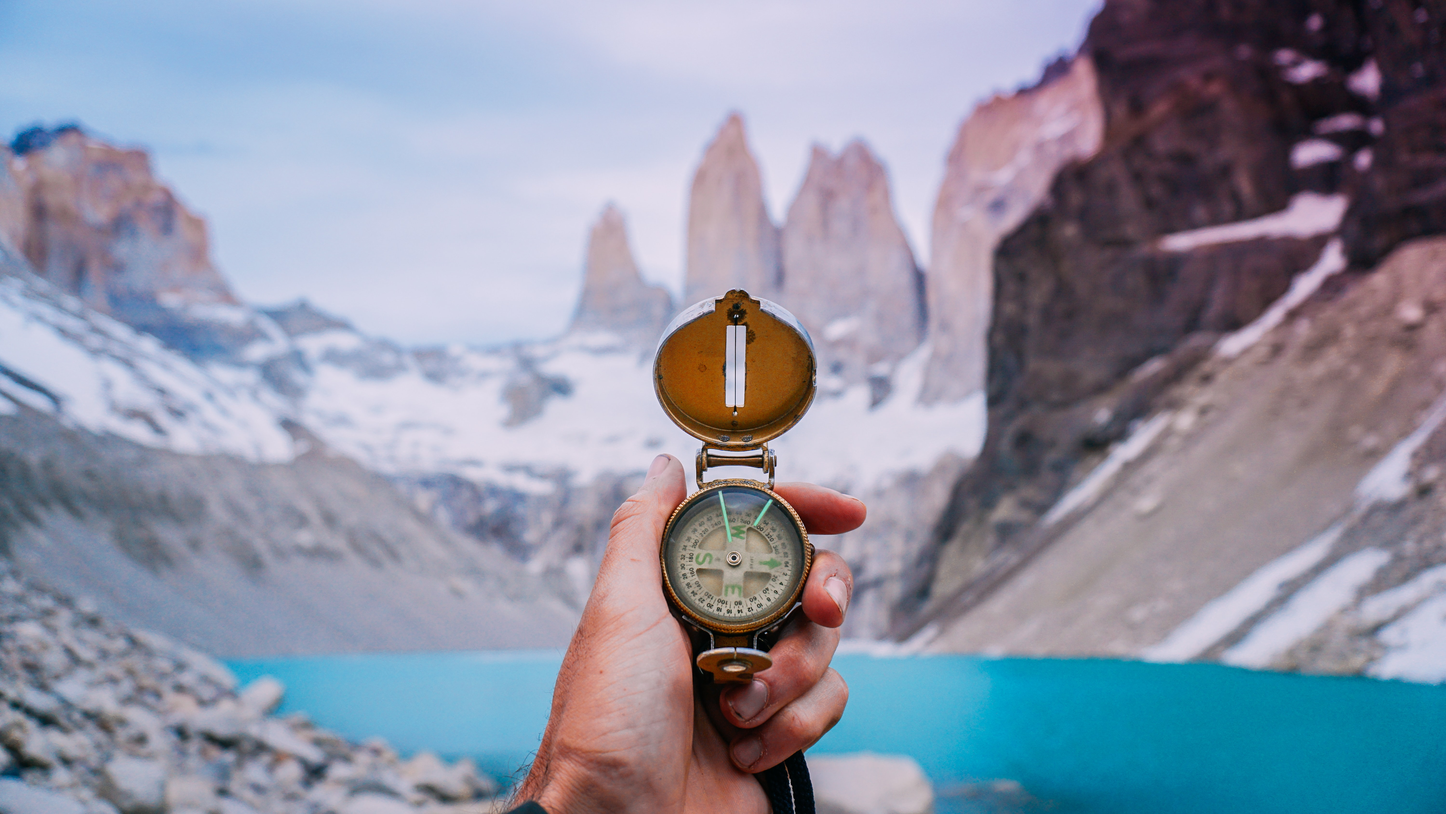
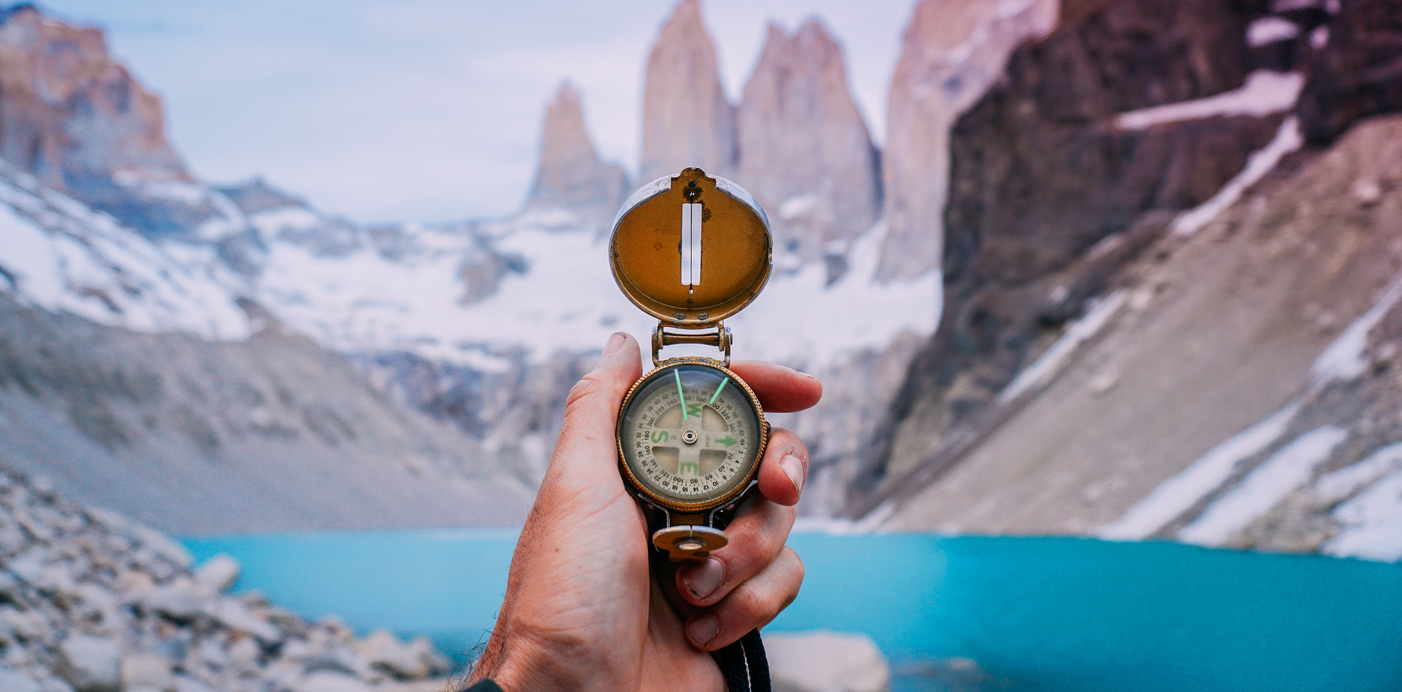
removed scroll, updated background img size, add score bar

diff --git a/src/views/Play.vue b/src/views/Play.vue
@@ -3,7 +3,24 @@
       <v-btn @click= "logout" id='btn-log-out' rounded outlined class='cyan accent-3 white--text'>Log Out</v-btn>
       
       <div id = "guess-location" class = ' d-flex justify-center'> 1. Where is this?</div>
-      <div id = "score-board" class = ' d-flex justify-center'>{{ counter}}/10 Your Score {{score}} </div>
+      <!-- <div id = "score-board" class = ' d-flex justify-center'>{{ counter}}/10 Your Score {{score}} </div> -->
+      <div id = "score-board" class = ' d-flex justify-center'>
+        <v-progress-linear
+          v-model="score"
+          height="20"
+          rounded
+          color='blue'
+        >
+          <v-text class='white--text' >{{ (score)*100 }} points  </v-text>
+           <v-text class = 'mx-5 white--text'>{{counter-1}}/10 sites</v-text>
+        </v-progress-linear>
+       
+
+    <br>
+      </div>
+
+
+      
       <v-btn id="goto-place" @click= "gotoPlace"><v-icon left class = "mx-5">mdi-airplane-takeoff</v-icon> Goto Next Place</v-btn>
       <div id= "hideMyAss"></div>
    
@@ -58,7 +75,7 @@
       <v-snackbar
         v-model="snackbar"
         centered
-        color="success"
+        color="white black--text"
         height ="200px"
         timeout= "-1"
       >
@@ -66,14 +83,14 @@
   
         <template v-slot:action="{ attrs }">
           <v-btn
-            color="red"
             outlined
+            color="green"
             border="5px"
             text
             v-bind="attrs"
             @click= "closeSnackBar"
           >
-            Close
+            NEXT
           </v-btn>
         </template>
       </v-snackbar>
@@ -217,34 +234,34 @@
           console.log(this.havershine())
             if(this.havershine() > 3000) {
               this.message = "You on wrong continent bud"
-              this.score -=  1000
+              this.score -=  1
             }else if(this.havershine() >= 2000 && this.havershine()< 3000){
               this.message = "You are way off!"
-              this.score -= 500
+              this.score += 0
             }else if(this.havershine() >= 1000 && this.havershine()< 2000){
                this.message = "Not Even Close"
-               this.score -= 250
+               this.score += 1
             }else if(this.havershine() >= 500 && this.havershine()< 1000){
                this.message = "Close"
-               this.score +=  0
+               this.score +=  3
             }else if(this.havershine() >= 250 && this.havershine()< 500){
                this.message = "Getting Hot"
-               this.score += 250
+               this.score += 5
             }else if(this.havershine() >= 100 && this.havershine()< 250){
                this.message = "Close, but no cigars"
-               this.score += 500
+               this.score += 6
             }else if(this.havershine() >= 50 && this.havershine()< 100){
                this.message = "You are close!"
-               this.score += 1000
+               this.score += 7
             }else if(this.havershine() >= 25 && this.havershine()< 50){
                this.message = "You are Good!"
-               this.score +=  2000
+               this.score +=  8
             }else if(this.havershine() >= 10 && this.havershine()< 25){
                this.message = "Genius"
-               this.score +=3000
+               this.score +=9
            }else if(this.havershine() <= 10){
                this.message = "BullsEye"
-               this.score += 5000
+               this.score += 10
             }
       }, 
       gameStatus(){

diff --git a/src/views/Welcome.vue b/src/views/Welcome.vue
@@ -1,7 +1,7 @@
 <template>
   <div class="welcome d-flex flex-column justify-space-around align-center">
 
-    <h1 id="title"><span id='explorer'>Explore</span> . <span id='discover'>Discover</span> . <span id='play'>Play</span> </h1>
+    <h1 id="title"><span id='explorer'>Play</span> . <span id='discover'>Explore</span> . <span id='play'>Discover</span> </h1>
 
     <v-btn v-if = "!loginGame" @click= "logIn" x-large rounded color= 'cyan accent-3 white--text'>Enter to Play</v-btn>
 
@@ -40,8 +40,7 @@
       Gameover,
       Register,
       LogIn 
-
-    
+   
     },
     props:[],
 
@@ -70,14 +69,12 @@
 
 </script>
 
-<style scoped>
+<style scoped >
  .welcome{
    position:relative;
    opacity: .8;
    background-image: url("../assets/background.jpg"); 
    background-size: cover;
-   background-position-y: -110px;
-   background-position-x: -10px;
    height:100vh
  }
  #title{
@@ -100,5 +97,6 @@ bottom:10px;
 right:10px;
 
 }
+
 
 </style>

diff --git a/src/views/Gameover.vue b/src/views/Gameover.vue
@@ -1,7 +1,7 @@
 <template>
   <div class="game-over d-flex flex-column justify-center align-center">
       <h1 class = "mb-10">Game Over</h1>
-      <h5 class = "mb-10">Your Score is {{score}}</h5>
+      <h5 class = "mb-10">Your Score is {{score * 100}}</h5>
       <v-btn @click= "playAgain" class = "mt-10" color = 'green white--text'>Play Again</v-btn>
   </div>
 </template>

diff --git a/src/App.vue b/src/App.vue
@@ -54,3 +54,9 @@ export default {
   }
 };
 </script>
+
+<style >
+  html{
+      overflow-y: hidden;  /*removes the vertical scroll bars from app */
+    }
+</style>
